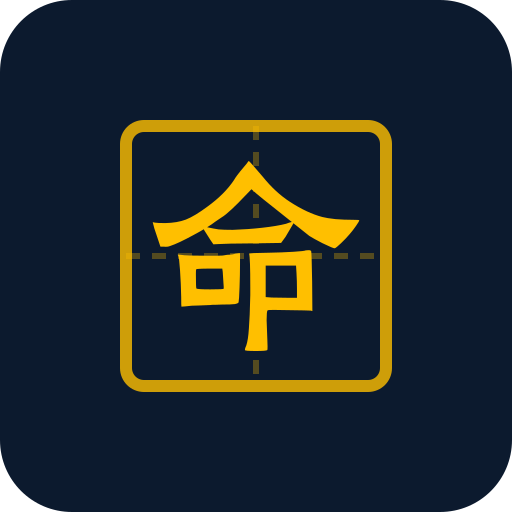
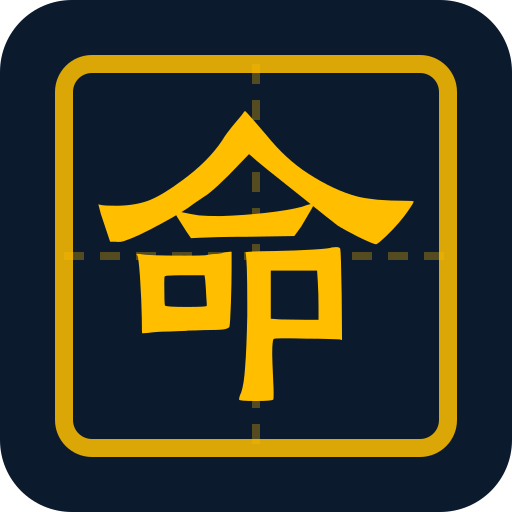
fix(expert-packs): 头像放大田字格与汉字占比（画布 51%→75% / 字高 190→290）
上一版田字格只占画布 51%、汉字只占 37%，头像在 40~96px 展示时显得空。
官方头像规范只约束 512×512 与 ≤500KB，没有留白要求，因此按展示尺寸重新配比：

- 田字格：260×(x=126) → 384×(x=64)，占画布 75%，格线 12 → 18，圆角 18 → 28。
- 汉字：目标字高 190 → 290（田字格内框的 ~80%），十字虚线 6 → 8、虚线节距等比放大。
- 比例全部收进 `scripts/gen_expert_avatar_svgs.py` 的设计常量，
  `make expert-avatars` 一条命令重建矢量源 + 栅格化。

40px 缩略下四个字仍可辨识；PNG 均 512×512、18~21KB（上限 500KB）；
`make check`、`pytest tests`、`lint-python` 全绿。

Changed region(s): [[0.0938, 0.0938, 0.9062, 0.9062]]

diff --git a/scripts/gen_expert_avatar_svgs.py b/scripts/gen_expert_avatar_svgs.py
@@ -10,7 +10,7 @@
     python3 scripts/gen_expert_avatar_svgs.py    # 重写四份矢量源（幂等）
     make expert-avatars                          # 再跑一遍栅格化出 expert.png
 
-改字面（换字）只改 `GLYPHS`；改配色/尺寸改本文件顶部的设计常量，然后重跑。
+改字面（换字）只改 `GLYPHS`；改配色/占比改本文件顶部的设计常量，然后重跑。
 """
 from __future__ import annotations
 
@@ -33,18 +33,31 @@ GLYPHS: tuple[tuple[str, str], ...] = (
 )
 
 FONT_FAMILY = "Alimama DaoLiTi"
-FONT_SIZE = 360  # 转路径时的字号；只影响中间精度，最终按 TARGET_HEIGHT 归一化
-TARGET_HEIGHT = 190  # 汉字在 512×512 画布上的目标字高
-CENTER = 256.0
+FONT_SIZE = 360  # 转路径时的字号；只影响中间精度，最终按 GLYPH_HEIGHT 归一化
+CANVAS = 512.0
+CENTER = CANVAS / 2
 BACKDROP = "#0C1A2E"
 INK = "#FFBF00"
 
+# 田字格与汉字的占比：头像按 40~96px 展示，画布几乎铺满——田字格占 75%，
+# 汉字占田字格内框的 ~80%（字再大就会顶到格线）。
+BACKDROP_RX = 72.0
+FRAME_SIZE = 384.0  # 田字格边长
+FRAME_RX = 28.0
+FRAME_STROKE = 18.0
+GRID_STROKE = 8.0
+GRID_DASH = "20 16"
+GLYPH_HEIGHT = 290.0  # 汉字目标字高
+
+FRAME = CENTER - FRAME_SIZE / 2
+FRAME_FAR = CENTER + FRAME_SIZE / 2
+
 TEMPLATE = """<svg xmlns="http://www.w3.org/2000/svg" width="512" height="512" viewBox="0 0 512 512">
-  <rect width="512" height="512" rx="72" fill="{backdrop}"/>
-  <rect x="126" y="126" width="260" height="260" rx="18" fill="none" stroke="{ink}" stroke-width="12" opacity="0.8"/>
-  <g stroke="{ink}" stroke-width="6" opacity="0.3" stroke-dasharray="14 12">
-    <line x1="256" y1="126" x2="256" y2="386"/>
-    <line x1="126" y1="256" x2="386" y2="256"/>
+  <rect width="512" height="512" rx="{backdrop_rx}" fill="{backdrop}"/>
+  <rect x="{frame}" y="{frame}" width="{frame_size}" height="{frame_size}" rx="{frame_rx}" fill="none" stroke="{ink}" stroke-width="{frame_stroke}" opacity="0.85"/>
+  <g stroke="{ink}" stroke-width="{grid_stroke}" opacity="0.3" stroke-dasharray="{grid_dash}">
+    <line x1="{center}" y1="{frame}" x2="{center}" y2="{frame_far}"/>
+    <line x1="{frame}" y1="{center}" x2="{frame_far}" y2="{center}"/>
   </g>
   <!-- 田字格与「{glyph}」（{font}轮廓） -->
   <g aria-label="{glyph}" fill="{ink}" transform="translate({tx},{ty}) scale({scale})">
@@ -117,11 +130,20 @@ def main() -> int:
     with tempfile.TemporaryDirectory() as tmp:
         for domain, glyph in GLYPHS:
             path, (x0, y0, width, height) = _glyph_outline(inkscape, glyph, Path(tmp))
-            scale = TARGET_HEIGHT / height
+            scale = GLYPH_HEIGHT / height
             tx = round(CENTER - scale * (x0 + width / 2), 4)
             ty = round(CENTER - scale * (y0 + height / 2), 4)
             svg = TEMPLATE.format(
                 backdrop=BACKDROP,
+                backdrop_rx=BACKDROP_RX,
+                frame=FRAME,
+                frame_size=FRAME_SIZE,
+                frame_rx=FRAME_RX,
+                frame_stroke=FRAME_STROKE,
+                frame_far=FRAME_FAR,
+                grid_stroke=GRID_STROKE,
+                grid_dash=GRID_DASH,
+                center=CENTER,
                 ink=INK,
                 glyph=glyph,
                 font=FONT_FAMILY,
@@ -134,7 +156,7 @@ def main() -> int:
             if not target.parent.is_dir():
                 raise SystemExit(f"[expert-avatars] error: {target.parent} 不存在")
             target.write_text(svg, encoding="utf-8")
-            print(f"  ✓ {target.relative_to(ROOT)} 「{glyph}」 字高 {height:.1f} → {TARGET_HEIGHT} (×{scale:.4f})")
+            print(f"  ✓ {target.relative_to(ROOT)} 「{glyph}」 字高 {height:.1f} → {GLYPH_HEIGHT:.0f} (×{scale:.4f})")
     return 0
 
 
